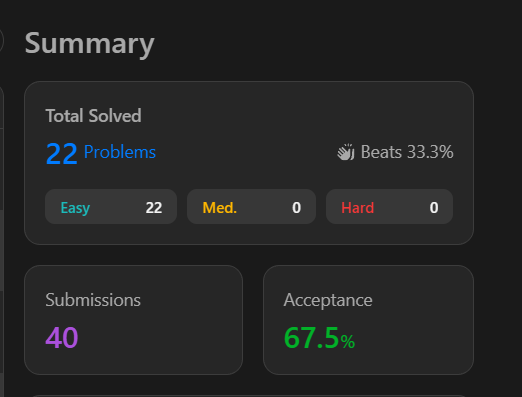
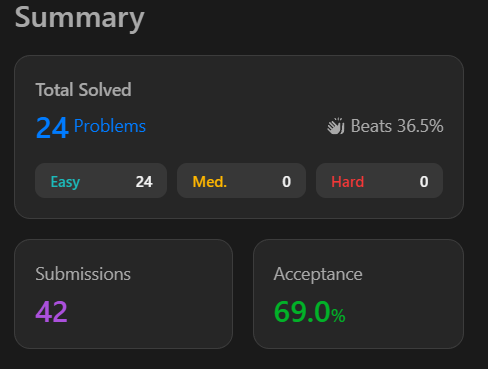
Add practice 13 solutions, tests and evidence

diff --git a/src/test/java/homework/h13/T2Test.java b/src/test/java/homework/h13/T2Test.java
@@ -1,0 +1,59 @@
+package homework.h13;
+
+import static org.assertj.core.api.Assertions.assertThat;
+
+import java.util.Arrays;
+import org.junit.jupiter.api.Test;
+
+class T2Test {
+  private final T2 solution = new T2();
+
+  @Test
+  void firstExample() {
+    assertThat(solution.maximumCount(new int[] {-2, -1, -1, 1, 2, 3})).isEqualTo(3);
+  }
+
+  @Test
+  void secondExample() {
+    assertThat(solution.maximumCount(new int[] {-3, -2, -1, 0, 0, 1, 2})).isEqualTo(3);
+  }
+
+  @Test
+  void thirdExample() {
+    assertThat(solution.maximumCount(new int[] {5, 20, 66, 1314})).isEqualTo(4);
+  }
+
+  @Test
+  void handlesSingleElements() {
+    assertThat(solution.maximumCount(new int[] {-2000})).isEqualTo(1);
+    assertThat(solution.maximumCount(new int[] {0})).isZero();
+    assertThat(solution.maximumCount(new int[] {2000})).isEqualTo(1);
+  }
+
+  @Test
+  void handlesAllZeroAtMaximumLength() {
+    assertThat(solution.maximumCount(new int[2000])).isZero();
+  }
+
+  @Test
+  void handlesAllNegativeAtMaximumLength() {
+    int[] nums = new int[2000];
+    Arrays.fill(nums, -2000);
+    assertThat(solution.maximumCount(nums)).isEqualTo(2000);
+  }
+
+  @Test
+  void handlesAllPositiveAtMaximumLength() {
+    int[] nums = new int[2000];
+    Arrays.fill(nums, 2000);
+    assertThat(solution.maximumCount(nums)).isEqualTo(2000);
+  }
+
+  @Test
+  void positiveMajorityWithZerosAndPreservesInput() {
+    int[] nums = {-2000, 0, 0, 1, 1, 2000};
+    int[] original = nums.clone();
+    assertThat(solution.maximumCount(nums)).isEqualTo(3);
+    assertThat(nums).containsExactly(original);
+  }
+}

diff --git a/src/test/java/homework/h13/T1Test.java b/src/test/java/homework/h13/T1Test.java
@@ -1,0 +1,54 @@
+package homework.h13;
+
+import static org.assertj.core.api.Assertions.assertThat;
+
+import org.junit.jupiter.api.Test;
+
+class T1Test {
+  private void checkSearch(int n, int bad) {
+    int[] calls = {0};
+    T1 solution =
+        new T1() {
+          @Override
+          protected boolean isBadVersion(int version) {
+            assertThat(version).isBetween(1, n);
+            calls[0]++;
+            return version >= bad;
+          }
+        };
+    assertThat(solution.firstBadVersion(n)).isEqualTo(bad);
+    int limit = 32 - Integer.numberOfLeadingZeros(n - 1);
+    assertThat(calls[0]).isLessThanOrEqualTo(limit);
+  }
+
+  @Test
+  void firstExample() {
+    checkSearch(5, 4);
+  }
+
+  @Test
+  void secondExampleAndMinimum() {
+    checkSearch(1, 1);
+  }
+
+  @Test
+  void firstVersionBadAtMaximumN() {
+    checkSearch(Integer.MAX_VALUE, 1);
+  }
+
+  @Test
+  void lastVersionBadAtMaximumN() {
+    checkSearch(Integer.MAX_VALUE, Integer.MAX_VALUE);
+  }
+
+  @Test
+  void avoidsOverflowWhenSearchingUpperHalf() {
+    checkSearch(Integer.MAX_VALUE, 2_000_000_000);
+  }
+
+  @Test
+  void handlesTwoVersions() {
+    checkSearch(2, 1);
+    checkSearch(2, 2);
+  }
+}

diff --git a/src/main/java/homework/h13/T2.java b/src/main/java/homework/h13/T2.java
@@ -1,0 +1,24 @@
+package homework.h13;
+
+// https://leetcode.com/problems/maximum-count-of-positive-integer-and-negative-integer/
+public class T2 {
+  public int maximumCount(int[] nums) {
+    int negatives = lowerBound(nums, 0);
+    int positives = nums.length - lowerBound(nums, 1);
+    return Math.max(negatives, positives);
+  }
+
+  private int lowerBound(int[] nums, int target) {
+    int left = 0;
+    int right = nums.length;
+    while (left < right) {
+      int middle = left + (right - left) / 2;
+      if (nums[middle] < target) {
+        left = middle + 1;
+      } else {
+        right = middle;
+      }
+    }
+    return left;
+  }
+}

diff --git a/src/main/java/homework/h13/T1.java b/src/main/java/homework/h13/T1.java
@@ -1,0 +1,21 @@
+package homework.h13;
+
+// https://leetcode.com/problems/first-bad-version/
+// LeetCode supplies this API through VersionControl; local tests override it.
+public abstract class T1 {
+  protected abstract boolean isBadVersion(int version);
+
+  public int firstBadVersion(int n) {
+    int left = 1;
+    int right = n;
+    while (left < right) {
+      int middle = left + (right - left) / 2;
+      if (isBadVersion(middle)) {
+        right = middle;
+      } else {
+        left = middle + 1;
+      }
+    }
+    return left;
+  }
+}

diff --git a/doc/h13/progress.md b/doc/h13/progress.md
@@ -1,0 +1,58 @@
+# Самостійна 13: стан і план
+
+Умови надані студентом 19 листопада 2026 року.
+T1 — 278 First Bad Version; T2 — 2529 Maximum Count of Positive Integer and Negative Integer.
+Обидва рішення використовують бінарний пошук: O(log n), O(1) додаткової пам'яті.
+T1 локально абстрактний: API isBadVersion підміняється в тестах; на LeetCode
+клас Solution extends VersionControl, абстрактну декларацію не вставляємо.
+Тести перевіряють приклади окремо, межі, переповнення midpoint і число API-викликів.
+JDK 25: test spotless:check — BUILD SUCCESS, 201 тест, 0 failures/errors/skipped.
+
+DevOps: каталоги Central, контрольна сума, dependency:get, effective-settings,
+npm/Python registry, перевірка доступу GitHub Packages, публічність залежностей POM.
+Секрети та навіть префікси токенів на скриншотах не показуємо.
+Для Maven registry GitHub потрібні відповідний токен і read:packages;
+звичайний gh OAuth-токен не гарантує доступу. Зміна HTTP-коду сама по собі
+не доводить доступу до реального артефакту. Не вигадуємо успішного завантаження.
+
+Git: основна віддалена гілка master; README у репозиторії називається readme.md.
+Навчальний PR створюємо в цьому репозиторії, з окремої гілки codex/.
+Комітимо конкретні файли, не git commit -am, щоб не захопити сторонні зміни.
+Коментар однокурсника/другого акаунта і чужий PR потребують реального учасника;
+власний коментар не видаємо за незалежний review.
+Fork/PR у чужий репозиторій вибираємо осмислено, не надсилаємо порожні правки
+вчителю. Захист master має застосовуватися до адміністратора для тесту відмови.
+Не виконуємо reset --hard у робочій теці з непідготовленими матеріалами.
+
+DevOps 1–5 підтверджено: список Central, однакові SHA-1 commons-lang3,
+Gson у кеші, effective-settings без користувацького settings.xml,
+npm registry/метадані та pip config (порожні користувацькі налаштування).
+Для pip підготовлено переносний pip поза репозиторієм.
+Пункт 6: корінь maven.pkg.github.com/allmirrored/java-mirrored/ повернув
+404 без credentials і 404 з Bearer OAuth-токеном gh. Токен не виводили.
+Це не підтвердження завантаження приватного пакета: потрібні реальний
+артефакт, підтримуваний токен і read:packages. Пункт має це обмеження.
+Пункт 7: dependency:tree успішний, у POM немає repositories/pluginRepositories
+чи приватних URL; залежності тестування публічні. Для збірки потрібні JDK 25,
+Maven і доступ до Central або заповнений кеш.
+Git: власний PR https://github.com/allmirrored/java-mirrored/pull/1 створено
+з codex/h13-readme у master. Автор опублікував коментар до файлу; вимоги
+Java/Maven додано другим комітом. Це не незалежний построковий review.
+gh pr checkout перевірено на власному PR; чужий PR ще не перевірено.
+Захист master створено, пробний прямий push з окремого clone відхилено
+protected branch hook declined. Пробний локальний коміт прибрано лише там.
+Fork allmirrored/aop-practice-s1-java-F5-on: origin/upstream підтверджено,
+гілка з документацією JDK 25 відправлена, PR у вихідний репозиторій створено:
+https://github.com/djnzx/aop-practice-s1-java-F5-on/pull/2.
+Власний PR №1 успішно squash-merged; локальну й віддалену codex/h13-readme
+видалено. Спочатку заважало обов'язкове approval=1; його вимкнено, вимога PR
+і заборона bypass залишені. Автоматичних checks для PR не налаштовано.
+Непідтверджені пункти Git: незалежний построковий review і checkout чужого PR.
+Синхронізацію підтверджено: repository-cleanup та origin/master на 988edcd.
+19 листопада 2026, 20:04 збережено Accepted allmirrored: T1 24/24, T2 169/169.
+URL, номер і назва задач у кадри не потрапили; строгий G1 підтверджено частково.
+Єдиний screenshots/leetcode-total.png оновлено 19 листопада: Total Solved 24,
+Easy 24, Submissions 42. Копій Total у hNN немає.
+Матеріали готові до доставки через PR; повну відповідність усім критеріям
+не заявлено через перелічені обмеження Git, DevOps 6 і G1.
+Commit/push h13 не виконано.

diff --git a/doc/repository-audit.md b/doc/repository-audit.md
@@ -124,7 +124,7 @@ JDK содержит `javap` для просмотра байткода, это 
 Общий профиль хранится в единственном файле `screenshots/leetcode-total.png`.
 По замечанию преподавателя его нужно обновлять после каждой практической,
 заменяя предыдущий снимок, а не добавляя копии в hNN. На сохранённом
-снимке от 19 ноября 2026 года 22 решённые задачи; ник в этом кадре не виден.
+снимке от 19 ноября 2026 года 24 решённые задачи; ник в этом кадре не виден.
 По исходному G4 счётчик должен быть не меньше числа задач в репозитории.
 Для всех 14 задач нужны фотографии с Accepted, номером, названием и
 пользователем либо датой/временем. Все имеющиеся LeetCode-файлы просмотрены.
